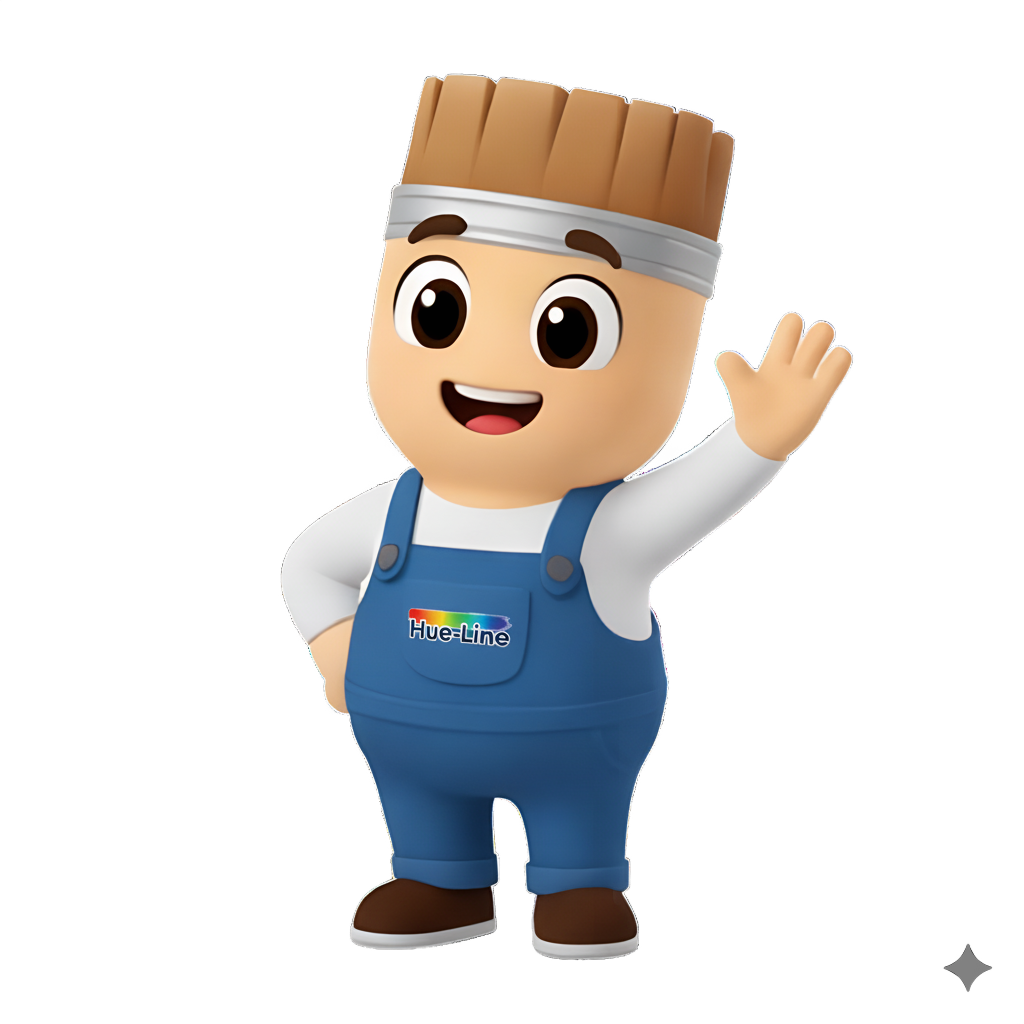
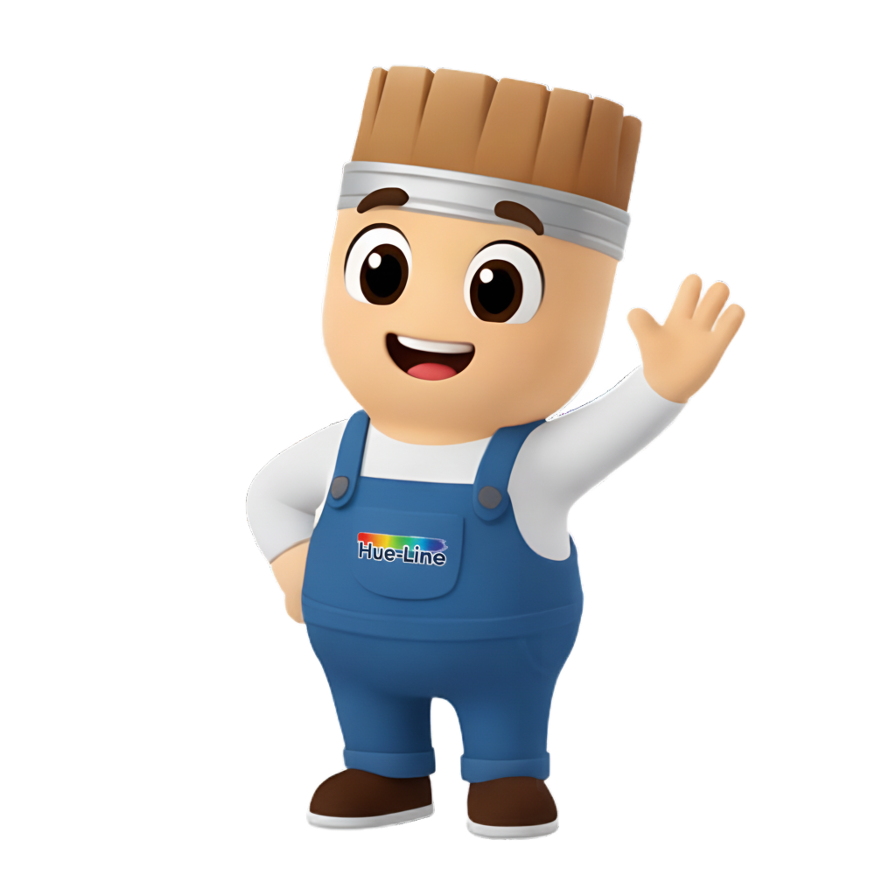
improved forms and client page

diff --git a/components/booking/booking-id-page.tsx b/components/booking/booking-id-page.tsx
@@ -1,8 +1,8 @@
 "use client";
 import React, { useState } from "react";
 import Image from "next/image";
-import Logo from "@/public/images/logo-w-brand-min.png";
-import MascotImage from "@/public/images/mascot.png";
+import Logo from "@/public/images/logo-2--increased-brightness.png";
+import MascotImage from "@/public/images/mascot-new.png";
 import {
   Palette,
   Lightbulb,
@@ -70,7 +70,6 @@ function EmptyState({ onRefresh }: { onRefresh?: () => void }) {
                 width={120}
                 height={120}
               />
-
             </div>
             <div className="flex items-center">
               <ThemeChanger />
@@ -210,27 +209,26 @@ export default function BookingPage({ booking, onRefresh }: Props) {
                 />
               </Link>
             </div>
-            <div className="flex items-center">
-              <ThemeChanger />
-            </div>
           </div>
         </header>
 
-        <main className="max-w-6xl mx-auto px-2 md:px-12 space-y-12 py-8">
+        <main className="max-w-6xl mx-auto px-2 md:px-12 space-y-12 py-4 md:py-8">
           {/* Hero Section */}
           <BookingHero booking={booking} formatTime={formatTime} />
 
           {/* Project Vision */}
           <section>
-            <div className="bg-background rounded-2xl shadow-sm border border-primary/10 py-8 px-6 md:px-8 md:py-10">
+            <div className="bg-background rounded-2xl shadow-sm py-8 px-6 md:px-8 md:py-10">
               <div className="flex items-center mb-6">
                 <div className="flex items-center justify-center h-10 w-10 rounded-lg bg-primary/20">
                   <Lightbulb className="h-5 w-5 text-primary" />
                 </div>
-                <h2 className="ml-3 text-2xl font-semibold ">Project Vision</h2>
+                <h2 className="ml-3 text-lg md:text-2xl font-semibold ">
+                  Project Vision
+                </h2>
               </div>
-              <div className="bg-primary/5 rounded-xl p-6 border border-primary/10">
-                <p className="text-lg italic leading-relaxed">
+              <div className="bg-primary/5 rounded-xl p-4 md:p-6 border border-primary/10">
+                <p className="md:text-lg italic leading-relaxed">
                   {`"${booking.prompt}"`}
                 </p>
               </div>
@@ -240,10 +238,10 @@ export default function BookingPage({ booking, onRefresh }: Props) {
           {/* Before & After Images */}
           <section className="bg-gradient-to-br from-primary/10 via-primary/5 to-secondary/10 rounded-2xl py-8 px-4 md:px-8 md:py-10">
             <div className="text-center mb-8">
-              <h2 className="text-3xl font-bold mb-2">
+              <h2 className="text-xl md:text-3xl font-bold md:mb-2">
                 Transformation Gallery
               </h2>
-              <p className="text-muted-foreground">
+              <p className="text-sm md:text-base text-muted-foreground">
                 Visualizing your space before and after
               </p>
             </div>
@@ -352,11 +350,11 @@ export default function BookingPage({ booking, onRefresh }: Props) {
                   <div className="flex items-center justify-center h-10 w-10 rounded-lg bg-primary/20">
                     <Sparkles className="h-5 w-5 text-primary" />
                   </div>
-                  <h2 className="ml-3 text-2xl font-semibold">
+                  <h2 className="ml-3 text-lg md:text-2xl font-semibold">
                     Design Analysis
                   </h2>
                 </div>
-                <div className="prose prose-lg max-w-none">
+                <div className="prose prose-lg max-w-none text-sm md:text-base leading-6 md:leading-normal">
                   <p>{booking.summary}</p>
                 </div>
               </div>
@@ -370,7 +368,7 @@ export default function BookingPage({ booking, onRefresh }: Props) {
                 <div className="flex items-center justify-center h-10 w-10 rounded-lg bg-primary/20">
                   <Palette className="h-5 w-5 text-primary" />
                 </div>
-                <h2 className="ml-3 text-2xl font-semibold">Paint Colors</h2>
+                <h2 className="ml-3 text-lg md:text-2xl font-semibold">Paint Colors</h2>
               </div>
 
               {/* Main Paint Colors */}
@@ -595,7 +593,7 @@ export default function BookingPage({ booking, onRefresh }: Props) {
                 asChild
               >
                 <Link href="/booking">
-                  Get HueLine AI for Your Business
+                  Get Hue-Line AI for Your Business
                   <ChevronRight className="ml-2 h-4 w-4 group-hover:translate-x-1 transition-transform" />
                 </Link>
               </Button>
@@ -619,7 +617,7 @@ export default function BookingPage({ booking, onRefresh }: Props) {
               />
             </div>
             <p className="text-sm text-muted-foreground">
-              © {new Date().getFullYear()} Hue-Line Interior Design. All rights
+              © {new Date().getFullYear()} Hue-Line AI Voice Agent. All rights
               reserved.
             </p>
           </div>

diff --git a/components/booking/section/booking-hero.tsx b/components/booking/section/booking-hero.tsx
@@ -1,6 +1,7 @@
 import { Avatar, AvatarImage, AvatarFallback } from "@/components/ui/avatar";
 import { Clock, User2, Palette, Calendar } from "lucide-react";
-
+import Image from "next/image";
+import PaletteImage from "@/public/images/pallete-no-bg.png"
 
 interface BookingHeroProps {
   booking: {
@@ -13,40 +14,57 @@ interface BookingHeroProps {
 export function BookingHero({ booking, formatTime }: BookingHeroProps) {
   return (
     <section className="space-y-6">
-      <div className="flex items-center justify-center gap-2">
-        <Palette className="h-8 w-8 text-primary" />
-        <h1 className="text-4xl md:text-5xl font-bold leading-20 text-primary">
+      <div className="flex items-center justify-center gap-1">
+        <Image 
+        src={PaletteImage}
+        alt="palette-image"
+        className="size-10 md:size-14"
+        />
+        <h1 className="text-3xl md:text-5xl font-bold leading-20 text-primary ">
           Painting Report
         </h1>
       </div>
-      <div className="p-6 bg-gradient-to-br from-primary/10 via-primary/5 to-secondary/10 rounded-xl flex flex-col md:flex-row justify-between gap-4">
-        <div className="space-y-2">
-          <p className="text-lg md:text-xl flex items-center gap-2">
-            <User2 className="h-5 w-5 text-primary" />
-            <span className="font-medium">Prepared for:</span> {booking.name}
-          </p>
-          <div className="text-lg md:text-xl flex items-center gap-2">
-            <Clock className="h-5 w-5 text-primary" />
-            <span className="font-medium">Call Duration:</span>{" "}
-            {formatTime(booking.call_duration)}
-          </div>
-          <div className="text-lg md:text-xl flex items-center gap-2">
-            <Calendar className="h-5 w-5 text-primary" />
-            <span className="font-medium">Date:</span>{" "}
-            {new Date().toLocaleDateString()}
+      
+      <div className="flex flex-col md:flex-row gap-0 rounded-xl overflow-hidden bg-white shadow-sm">
+        {/* Report Info Section - Subtle and professional */}
+        <div className="flex-1 p-6 bg-gray-50/50">
+          <div className="space-y-4">
+            <div className="flex items-center gap-3 text-sm text-gray-600">
+              <User2 className="h-4 w-4 text-gray-500" />
+              <span className="font-medium">Prepared for:</span>
+              <span>{booking.name}</span>
+            </div>
+
+            <div className="flex items-center gap-3 text-sm text-gray-600">
+              <Clock className="h-4 w-4 text-gray-500" />
+              <span className="font-medium">Call Duration:</span>
+              <span>{formatTime(booking.call_duration)}</span>
+            </div>
+
+            <div className="flex items-center gap-3 text-sm text-gray-600">
+              <Calendar className="h-4 w-4 text-gray-500" />
+              <span className="font-medium">Date:</span>
+              <span>{new Date().toLocaleDateString()}</span>
+            </div>
+
+            <div className="flex items-center gap-3 text-sm text-amber-600 font-medium">
+              <Clock className="h-4 w-4" />
+              <span>Expires in: 48h</span>
+            </div>
           </div>
         </div>
 
-        <div className="inline-flex items-center justify-center gap-3 md:justify-end mt-4 md:mt-0">
-          <Avatar className="size-12">
-            <AvatarImage src="/images/agent-avatar.png" />
-            <AvatarFallback>AN</AvatarFallback>
-          </Avatar>
-          <div className="text-left">
-            <p className="text-base md:text-lg font-medium">By: Annalia</p>
-            <p className="text-base md:text-lg text-muted-foreground">
-              HueLine Design Consultant
-            </p>
+        {/* Agent Section - Full height white background */}
+        <div className="md:w-64 p-6 bg-white  flex items-center">
+          <div className="flex items-center gap-3 w-full">
+            <Avatar className="size-10">
+              <AvatarImage src="/images/agent-avatar.png" />
+              <AvatarFallback>AN</AvatarFallback>
+            </Avatar>
+            <div className="min-w-0">
+              <p className="text-sm font-medium text-gray-900 truncate">By: Annalia</p>
+              <p className="text-xs text-gray-500 truncate">Hue-Line Design Consultant</p>
+            </div>
           </div>
         </div>
       </div>

diff --git a/components/booking/quote-card.tsx b/components/booking/quote-card.tsx
@@ -36,7 +36,7 @@ const CouponQuoteCards = ({ booking }: { booking?: BookingProps }) => {
     <div className="grid md:grid-cols-2 gap-6 mx-auto">
       {/* Coupon Card */}
       <Card className="border-2 border-dashed border-orange-400/70 bg-gradient-to-br from-orange-50 to-amber-50">
-        <CardContent className="p-6 text-center">
+        <CardContent className="md:p-6 text-center">
           <div className="mb-4">
             <div className="inline-flex items-center gap-2 bg-orange-500 text-white px-4 py-1 rounded-full mb-2">
               <Timer className="h-4 w-4" />
@@ -87,7 +87,7 @@ const CouponQuoteCards = ({ booking }: { booking?: BookingProps }) => {
 
       {/* Quote Card */}
       <Card className="border-2 border-blue-400/70 bg-gradient-to-br from-blue-50 to-indigo-50">
-        <CardContent className="p-6">
+        <CardContent className="md:p-6">
           <div className="text-center mb-4">
             <div className="inline-flex items-center gap-2 bg-blue-500 text-white px-4 py-1 rounded-full mb-2">
               <FileText className="h-4 w-4" />

diff --git a/components/ui/landing-page/example-section.tsx b/components/ui/landing-page/example-section.tsx
@@ -50,7 +50,7 @@ return (
   <section id="examples" className="px-4">
    <div className="max-w-xl md:max-w-4xl mx-auto">
       <div className='header-section-div'>
-        <h1 className='section-badge'>Real Examples</h1>
+        <h1 className='section-badge'>Examples</h1>
         <p className='section-header'>Hear how <span className='text-primary '>Hue-Line</span> handles actual painting consultations</p>
       </div>
 
